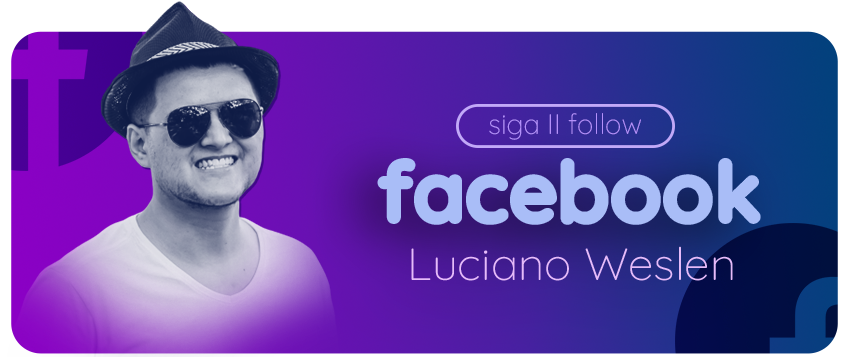
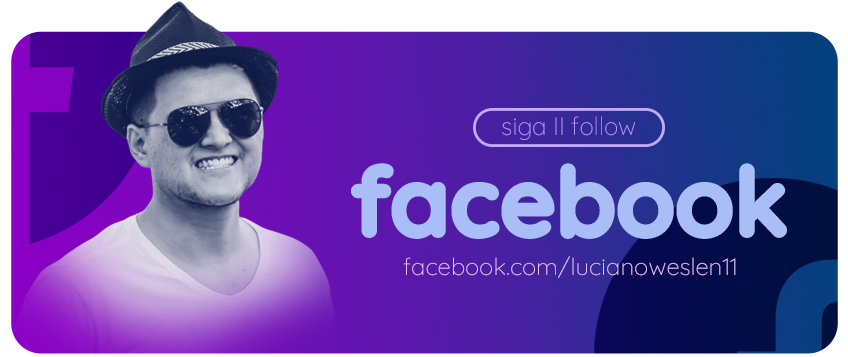
Update links and new images

diff --git a/index.html b/index.html
@@ -1,9 +1,10 @@
 <!DOCTYPE html>
-<html lang="en">
+<html lang="pt-br">
   <head>
     <meta charset="UTF-8" />
     <meta name="viewport" content="width=device-width, initial-scale=1.0" />
     <link rel="stylesheet" href="styles.css" />
+    <link rel="shortcut icon" href="./assets/favicon.ico" />
     <title>Luciano Weslen</title>
   </head>
   <body>
@@ -13,6 +14,12 @@
       </a>
       <a href="https://www.instagram.com/lucianoweslen11/">
         <img src="./assets/instagram.png" alt="instagram" />
+      </a>
+      <a href="https://www.linkedin.com/in/lucianoweslen11/">
+        <img src="./assets/linkedin.png" alt="instagram" />
+      </a>
+      <a href="https://www.github.com/lucianoweslen11/">
+        <img src="./assets/github.png" alt="instagram" />
       </a>
     </div>
   </body>

diff --git a/styles.css b/styles.css
@@ -1,15 +1,21 @@
 body {
+  width: 100vw;
+
   margin: 0;
   padding: 0;
-  background-color: #b1b8ca;
+  background-color: #bdc5da;
 }
 
 .content {
   display: flex;
   flex-direction: column;
-  justify-content: center;
   align-items: center;
   margin-top: 20px;
+  background-color: transparent;
+}
+
+a {
+  margin-bottom: 15px;
 }
 
 img {
